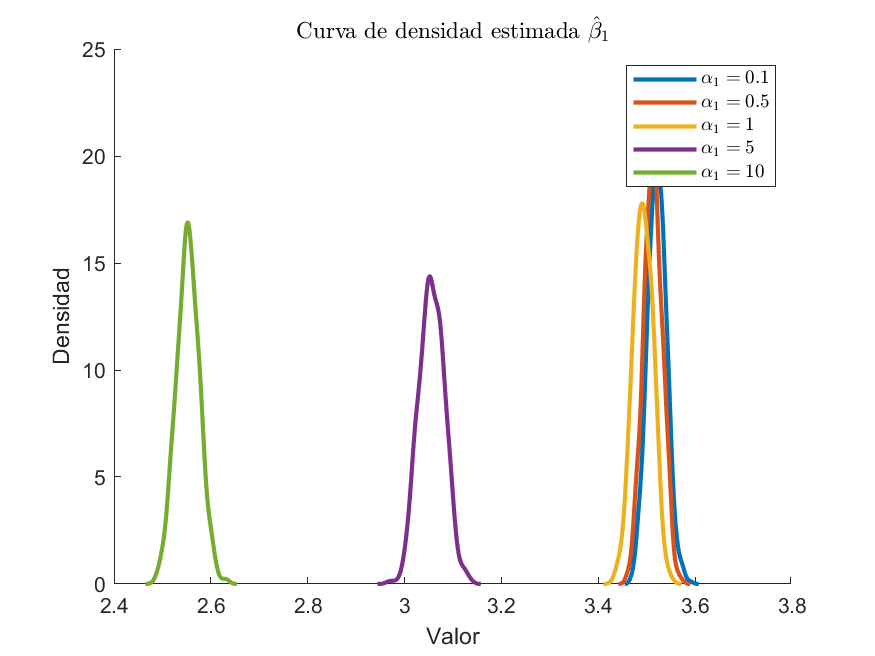
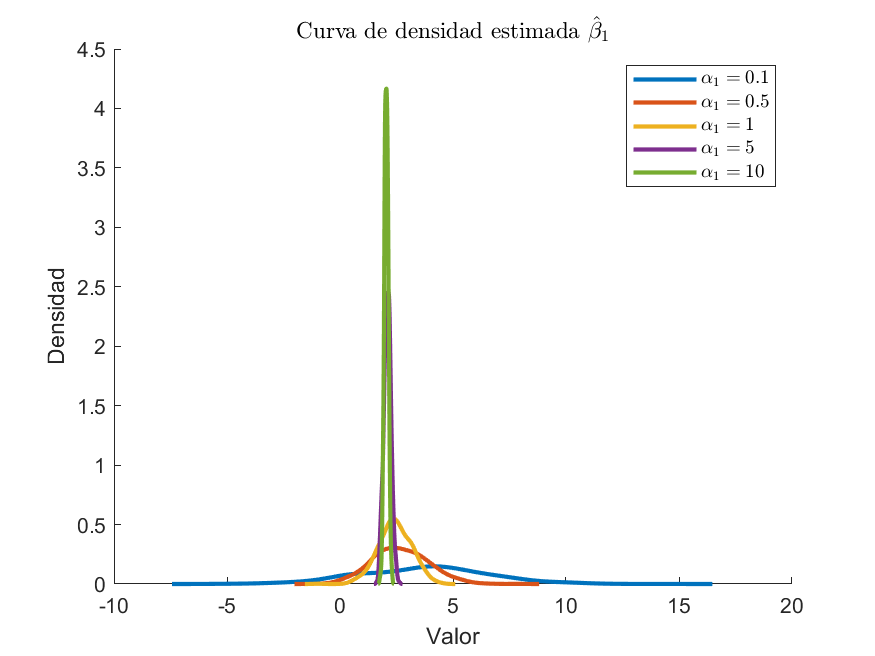
final?

diff --git a/code/Nico/Pregunta2_Nico.m b/code/Nico/Pregunta2_Nico.m
@@ -147,7 +147,7 @@ u_gorro = X_i - Z*zeta_gorro;
 
 % Segunda etapa.
 
-X_hat = Z*zeta_gorro + u_gorro;
+X_hat = Z*zeta_gorro;
 
 X = [ones(N,1), X_hat];         % Omitimos W_i.
 beta_gorro = inv(X'*X)*X'*Y;
@@ -205,6 +205,8 @@ end
 
 clear all   % Se hace clear all. De lo contrario los resultados se traslapan.
 
+rng(1)               % Semilla.
+
 N = 1000;
 
 b0 = 1;
@@ -228,8 +230,6 @@ for i = 1:N
     end
 end
 
-rng(1)               % Semilla.
-
 for a1 = [0.1, 0.5, 1, 5, 10]
 
 B = 1000;         % Número de simulaciones. 
@@ -243,10 +243,9 @@ for i = 1:B
     % Primera etapa.
     Z = [ones(N,1), Z_i];          % Omitimos W_i.
     zeta_gorro = inv(Z'*Z)*Z'*X_i;
-    u_gorro = X_i - Z*zeta_gorro;
 
     % Segunda etapa.
-    X_hat = Z*zeta_gorro + u_gorro;
+    X_hat = Z*zeta_gorro;
     X = [ones(N,1), X_hat];         % Omitimos W_i.
     
     m = randi(N,N,1);      % Vector de m pares aleatorios intependientes de tamaño n. 
@@ -276,9 +275,6 @@ filename = ['densidad_alpha_p4.png'];
 
 
 %% Datos para Stata.
-
-
-
 
 clc;
 clear;
